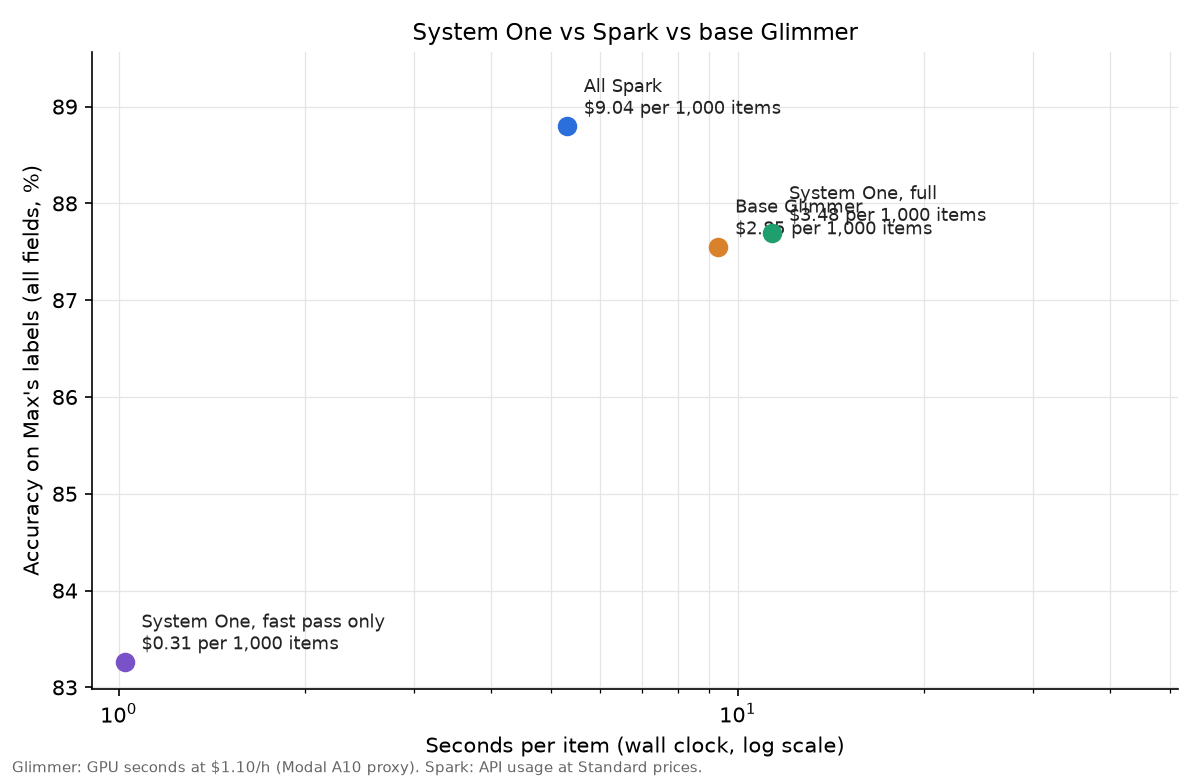
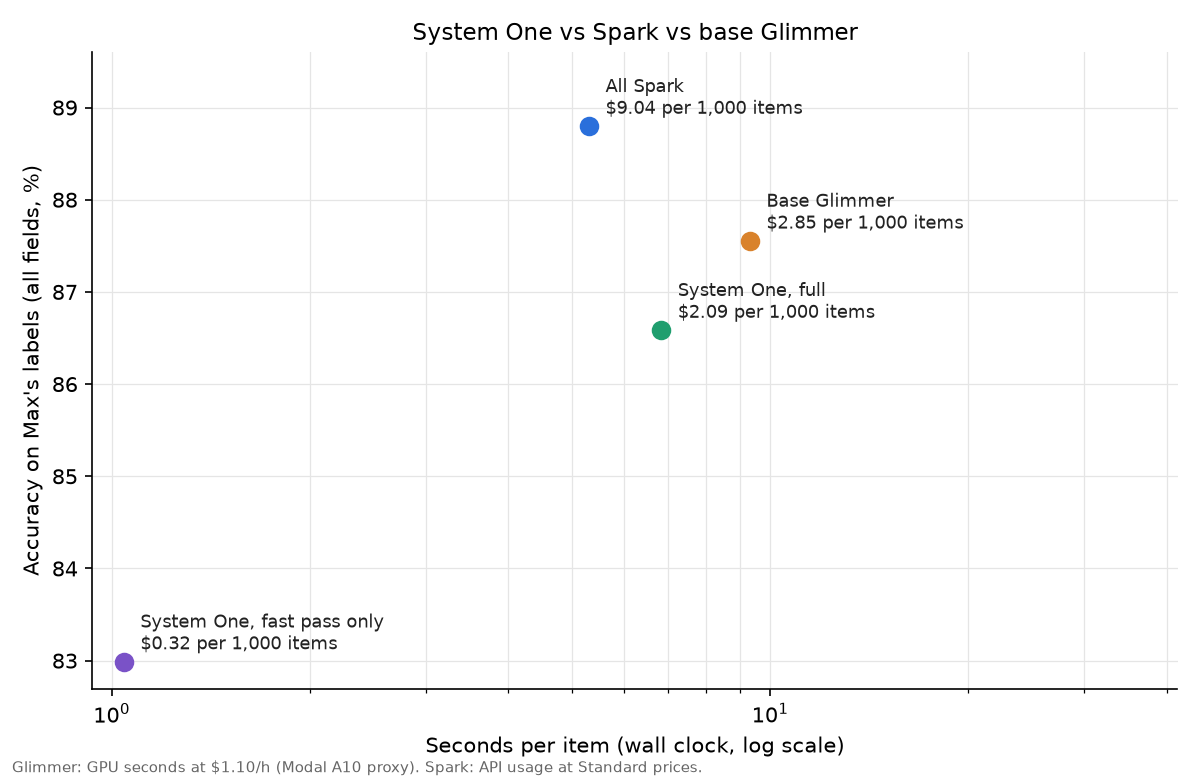
Measure System One on 4 slots with effort skipping thinking
86.6% at 6.8 s per item (was 87.7% at 11.4 s on 1 slot with effort
thinking): assignments 7.9 s, test questions 2.5 s. Effort 145 -> 138
of 191; the other fields move by batching noise only.

diff --git a/docs/system-one-spec.md b/docs/system-one-spec.md
@@ -101,7 +101,7 @@ Part B only starts if the go/no-go check in Part C passes.
   - Clarify: 17 type questions catch 7 of the 16 type errors, and 23 template questions catch 14 of the 22 errors on asked templates. That's 40 questions over 197 assignments, 19 of them on an answer that was already right. The other 17 errors show "Thought it over".
   - Credit's 0.999 stop halves its thinking at the same 49 of 51. It fixes one answer ("q8+q9+q10" → partial) and breaks one ("q22" → none).
   - Proposed v9 lines: type 0.9987, template 0.9977, effort 0.988, format 0.64 (think 0.99, skip thinking), topic 0.86, credit 0.86 (think 0.999); every other think line never. Approved by Max Nov 1 and written to `decisions/lines.json`, with effort added to `skip_thinking`: on the v9 records effort goes from 147 to 142 right of 191 and saves about 12 s of thinking per assignment on 1 slot. System One now runs on 4 slots (`PARALLEL_SLOTS=4`).
-- Compare, prompt version 9, Nov 1 (`eval/summary.md`, `eval/results.csv`, `eval/compare.png`; copies and records in `data/eval/compare-outputs.v9/` and `data/eval/compare.v9/`). All three setups re-run on the same labels. Glimmer on 1 slot as in production, seed 7. System One full used the proposed v9 lines (`LINES_FILE=data/eval/proposal.v9.json`), since `decisions/lines.json` is still v2. The Dashboard part of the Something else template line was in the prompt for this run. Spark: 590k input tokens (148k cached) and 393k output (387k reasoning) on 248 calls, $2.24.
+- Compare, prompt version 9, Nov 1 (`eval/summary.md`, `eval/results.csv`, `eval/compare.png`; copies and records in `data/eval/compare-outputs.v9/` and `data/eval/compare.v9/`). All three setups re-run on the same labels. Glimmer on 1 slot as in production, seed 7. System One full used the proposed v9 lines (`LINES_FILE=data/eval/proposal.v9.json`), before Max approved them. The Dashboard part of the Something else template line was in the prompt for this run. Spark: 590k input tokens (148k cached) and 393k output (387k reasoning) on 248 calls, $2.24.
 
   | Setup | Accuracy | Expensive | Cheap | Seconds per item | Cost per 1,000 items |
   |---|---|---|---|---|---|
@@ -115,6 +115,18 @@ Part B only starts if the go/no-go check in Part C passes.
   - Speed splits by item kind. Assignments: Spark 5.6 s mean, base Glimmer 9.3 s, System One 13.3 s (median 12.1, 31 of 197 with no thinking at 1.5 s; the fast pass alone is 1.08 s). Test questions: Spark 4.3 s, base Glimmer 9.4 s, System One 4.1 s, since it reads the whole test in one call.
   - Tiers: 38% instant, 38% thought, 13% guessed, 11% from the type; 365 thinking loops, 16 at the cap. Clarify asks 43 questions (22 type, 21 template) over 197 assignments, 19 of them on wrong answers.
   - The v9 lines and the option definitions were fitted on this same labeled set, so System One's numbers are in-sample. Calibrate's System One numbers (type 173, template 167) differ a little from compare's (176, 164) because calibrate ran on 4 slots and batched decoding changes the last digits of probabilities.
+- Compare, current setup, Nov 1: the approved lines in `decisions/lines.json` (effort skips thinking), `PARALLEL_SLOTS=4`, llama-server `-np 4 -c 32768`. Only System One re-run; Spark and base Glimmer as above. Copies and records in `data/eval/compare-outputs.v9-4slot/` and `data/eval/compare.v9-4slot/`; `eval/summary.md` now holds this run.
+
+  | Setup | Accuracy | Expensive | Cheap | Seconds per item | Cost per 1,000 items |
+  |---|---|---|---|---|---|
+  | All Spark | 88.8% | 92.1% | 82.2% | 5.30 | $9.04 |
+  | Base Glimmer | 87.6% | 90.0% | 82.6% | 9.31 | $2.85 |
+  | System One, 1 slot, effort thinks (above) | 87.7% | 91.5% | 80.2% | 11.38 | $3.48 |
+  | System One, 4 slots, effort skips thinking | 86.6% | 91.3% | 77.3% | 6.83 | $2.09 |
+
+  - Effort fell from 145 to 138 right of 191 (72.3%, the fast pass's own score); the calibration records predicted 5 fewer. Type went 176 → 174 and template 164 → 165. Those small moves come from batched decoding on 4 slots, not from a rule change. Format, topic and credit didn't change.
+  - Assignments: 7.9 s mean (median 6.2, against 13.3 and 12.1), now faster than base Glimmer's 9.3 s and behind Spark's 5.6 s. 48 of 197 assignments need no thinking at all (1.3 s). Test questions: 2.5 s each (against 4.1), faster than Spark (4.3) and base Glimmer (9.4).
+  - Tiers: 37% instant, 27% thought, 25% guessed (effort's 69% guessed is most of it), 11% from the type; 240 thinking loops, 6 at the cap. Clarify asks 46 questions (23 type, 23 template), 21 of them on wrong answers.
 - v8 results, System One from the calibration (`data/eval/calibrate-report.v8.txt`, lines in `data/eval/proposal.v8.json`). Both columns are scored on the current labels with lines fitted on those labels, so the v6 numbers differ from the v6 table below.
 
   | Field | System One v6 → v8 | Instant v6 → v8 |

diff --git a/eval/summary.md b/eval/summary.md
@@ -6,33 +6,33 @@ Run Nov 01, 2026 on the labeled set: 197 assignments and 51 test questions, 723 
 |---|---|---|---|---|---|
 | All Spark (248 items) | 88.8% | 92.1% | 82.2% | 5.30 | $9.04 |
 | Base Glimmer (248 items) | 87.6% | 90.0% | 82.6% | 9.31 | $2.85 |
-| System One, fast pass only (248 items) | 83.3% | 86.1% | 77.7% | 1.02 | $0.31 |
-| System One, full (248 items) | 87.7% | 91.5% | 80.2% | 11.38 | $3.48 |
+| System One, fast pass only (248 items) | 83.0% | 85.9% | 77.3% | 1.04 | $0.32 |
+| System One, full (248 items) | 86.6% | 91.3% | 77.3% | 6.83 | $2.09 |
 
 ## Accuracy by field
 
 | Field | Cost | All Spark | Base Glimmer | System One, fast pass only | System One, full |
 |---|---|---|---|---|---|
-| type (189) | expensive | 92.1% | 92.6% | 88.4% | 93.1% |
-| template (190) | expensive | 89.5% | 87.4% | 84.7% | 86.3% |
-| effort (191) | cheap | 78.0% | 79.1% | 72.8% | 75.9% |
+| type (189) | expensive | 92.1% | 92.6% | 87.3% | 92.1% |
+| template (190) | expensive | 89.5% | 87.4% | 84.7% | 86.8% |
+| effort (191) | cheap | 78.0% | 79.1% | 72.3% | 72.3% |
 | format (51) | cheap | 98.0% | 96.1% | 96.1% | 96.1% |
 | topic (51) | expensive | 98.0% | 100.0% | 96.1% | 98.0% |
-| credit (51) | expensive | 96.1% | 80.4% | 72.5% | 98.0% |
+| credit (51) | expensive | 96.1% | 80.4% | 74.5% | 98.0% |
 
 ## System One tiers
 
 | Field | Instant | Thought | Guessed | From the type | Thinking loops | Hit the cap | To clarify (wrong) |
 |---|---|---|---|---|---|---|---|
-| type | 39.7% | 48.7% | 11.6% | 0.0% | 114 | 5 (4.4%) | 22 (7) |
-| template | 10.0% | 35.8% | 11.1% | 43.2% | 89 | 2 (2.2%) | 21 (12) |
-| effort | 31.4% | 43.5% | 25.1% | 0.0% | 131 | 9 (6.9%) | 0 (0) |
-| format | 94.1% | 0.0% | 5.9% | 0.0% | 0 | 0 (-) | 0 (0) |
-| topic | 94.1% | 3.9% | 2.0% | 0.0% | 3 | 0 (0.0%) | 0 (0) |
-| credit | 45.1% | 54.9% | 0.0% | 0.0% | 28 | 0 (0.0%) | 0 (0) |
-| all | 37.8% | 37.8% | 13.1% | 11.3% | 365 | 16 (4.4%) | 43 (19) |
+| type | 40.2% | 47.6% | 12.2% | 0.0% | 113 | 3 (2.7%) | 23 (8) |
+| template | 8.4% | 37.4% | 12.1% | 42.1% | 94 | 2 (2.1%) | 23 (13) |
+| effort | 31.4% | 0.0% | 68.6% | 0.0% | 0 | 0 (-) | 0 (0) |
+| format | 96.1% | 0.0% | 3.9% | 0.0% | 0 | 0 (-) | 0 (0) |
+| topic | 90.2% | 7.8% | 2.0% | 0.0% | 5 | 0 (0.0%) | 0 (0) |
+| credit | 45.1% | 52.9% | 2.0% | 0.0% | 28 | 1 (3.6%) | 0 (0) |
+| all | 37.3% | 26.6% | 25.0% | 11.1% | 240 | 6 (2.5%) | 46 (21) |
 
-Lines: `data/eval/proposal.v9.json` = `{"lines": {"type": {"fast": 0.9987, "think": 1.01}, "template": {"fast": 0.9977, "think": 1.01}, "effort": {"fast": 0.988, "think": 1.01}, "format": {"fast": 0.64, "think": 0.99}, "topic": {"fast": 0.86, "think": 1.01}, "credit": {"fast": 0.86, "think": 0.999}}, "skip_thinking": ["format"]}`.
+Lines: `decisions/lines.json` = `{"lines": {"type": {"fast": 0.9987, "think": 1.01}, "template": {"fast": 0.9977, "think": 1.01}, "effort": {"fast": 0.988, "think": 1.01}, "format": {"fast": 0.64, "think": 0.99}, "topic": {"fast": 0.86, "think": 1.01}, "credit": {"fast": 0.86, "think": 0.999}}, "skip_thinking": ["effort", "format"]}`.
 
 ## How the numbers are made
 
